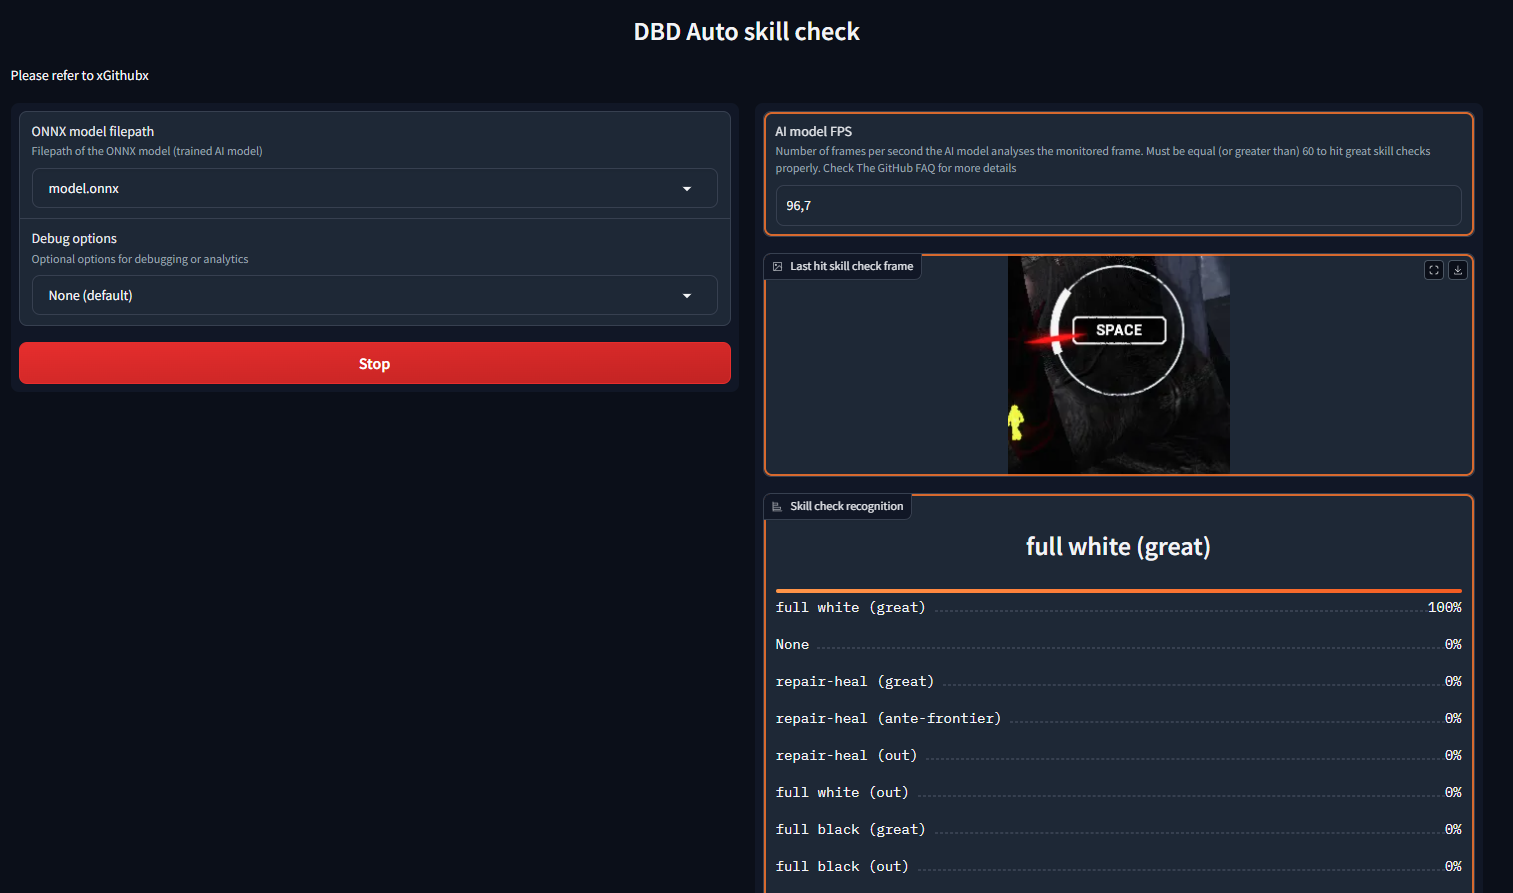
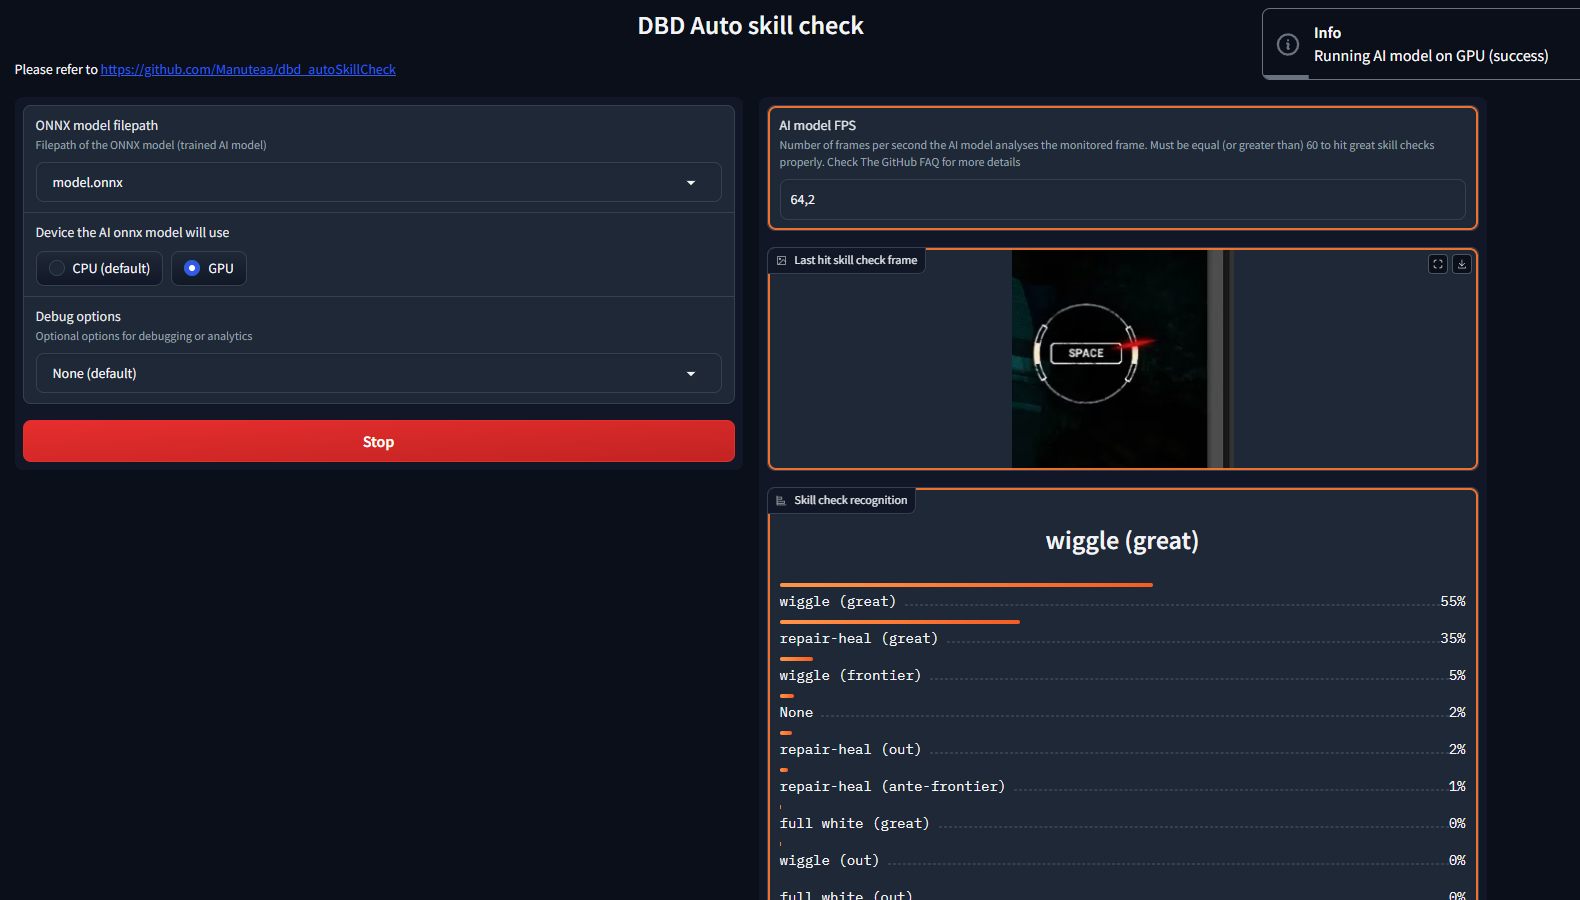
update README file

Changed region(s): [[0.0, 0.0302, 0.9941, 1.0], [0.4038, 0.0, 0.5902, 0.0605], [0.0, 0.0605, 0.2485, 0.0907]]

diff --git a/README.md b/README.md
@@ -3,20 +3,38 @@
 The Dead by Daylight Auto Skill Check is a tool developed using deep learning techniques (PyTorch) to automatically detect and successfully hit skill checks in the popular game Dead by Daylight. 
 This tool is designed to improve gameplay performance and enhance the player's skill in the game. 
 
+<!-- TOC -->
+* [DBD Auto Skill Check](#dbd-auto-skill-check)
+  * [Features](#features)
+  * [Execution Instructions](#execution-instructions)
+    * [Single prediction Web UI](#single-prediction-web-ui)
+    * [Auto skill check Web UI](#auto-skill-check-web-ui)
+  * [What is a skill check](#what-is-a-skill-check)
+  * [Project details](#project-details)
+    * [Dataset](#dataset)
+    * [Architecture](#architecture)
+    * [Training](#training)
+    * [Inference](#inference)
+    * [Results](#results)
+  * [FAQ](#faq)
+  * [Acknowledgments](#acknowledgments)
+<!-- TOC -->
+
 ## Features
 - Real-time detection of skill checks (60fps)
-- High accuracy in recognizing **all types of skill checks (with a 98.7% precision, see details of results below)**
+- High accuracy in recognizing **all types of skill checks (with a 98.7% precision, see details of [Results](#results))**
 - Automatic triggering of great skill checks through auto-pressing the space bar
-- **[NEW]** Two different webUI to run the AI model
+- Two different webUI to run the AI model
 
 
 ## Execution Instructions
-I have only tested the model on my own computer running Windows 11 with CUDA version 12.3.
+I have only tested the model on my own computer running Windows 11 with CUDA version 12.3. I provide two different scripts you can run, here the instructions.
 
 Create your own python env (I have python 3.11) and install the necessary libraries using the command :
-`pip install numpy mss onnxruntime pyautogui IPython pillow gradio`
 
-Then clone the repo. I provide two different scripts.
+`pip install numpy mss onnxruntime-gpu pyautogui IPython pillow gradio`
+
+Then git clone the repo.
 
 ### Single prediction Web UI
 
@@ -33,38 +51,35 @@ Run this script to test the AI model with images of the game.
 |------------------------------------------------|------------------------------------------------|
 | ![](images/single_pred_1.png "Example repair") | ![](images/single_pred_2.png "Example wiggle") |
 
-### Monitoring Web UI
+### Auto skill check Web UI
 
 Run this script and play the game ! It will hit the space bar for you.
 
 `python run_monitoring_gradio.py`
 
 1) Select the trained AI model (default to `model.onnx` available in this repo)
-2) Choose debug options. I recommend setting this option to None. If you want to check which screen the script is monitoring, you can select the first option. If the AI struggles recognizing the skill checks, select the second option to save the results, then you can upload the images in a new GitHub issue.
-3) Click 'RUN'
-4) You can STOP and RUN the script from the Web UI at will, for example when waiting in the game lobby.
+2) Select the device to use. Select "CPU", except if you need to improve the AI model FPS [FAQ](#faq)
+3) Choose debug options. I recommend setting this option to None. If you want to check which screen the script is monitoring, you can select the first option. If the AI struggles recognizing the skill checks, select the second option to save the results, then you can upload the images in a new GitHub issue
+4) Click 'RUN'
+5) You can STOP and RUN the script from the Web UI at will, for example when waiting in the game lobby
 
 Your main screen is now monitored meaning that frames are regularly sampled (with a center-crop) and analysed with the trained AI model.
 You can play the game on your main monitor.
 When a great skill check is detected, the SPACE key is automatically pressed, then it waits for 0.5s to avoid triggering the same skill check multiple times in a row.
 
 On the right of the web UI, we display :
-- The AI model FPS : the number of frames per seconds the AI model processes
+- The AI model FPS : the number of frames per second the AI model processes
 - The last hit skill check frame : last frame (center-cropped image with size 224x224) the AI model triggered the SPACE bar. **This may not be the actual hit frame (as registered by the game) because of game latency (such as ping). The AI model anticipates the latency, and hits the space bar a little bit before the cursor reaches the great area, that's why the displayed frame will always be few frames before actual game hit frame**
 - Skill check recognition : set of probabilities for the frame displayed before
 
 | RUN example with a full white skill check (to hit) | RUN example with an ante-great repair skill check (to hit) |
 |----------------------------------------------------|------------------------------------------------------------|
-| ![](images/run_2.png "Example run 1")              | ![](images/run_3.png "Example run 2")                      |
+| ![](images/run_1.png "Example run 1")              | ![](images/run_2.png "Example run 2")                      |
 
 
 
-**Both the game AND the AI model FPS must run at 60fps (or more) in order to hit correctly the great skill checks.** If you have low FPS values for the AI model, try this :
-- Disable the energy saver settings in your computer settings
-- Run the script in administrator
-
-I had this problem of low FPS with Windows : when the script was on the background (when I played), the FPS dropped significantly. Running the script in admin solved the problem.
-
+**Both the game AND the AI model FPS must run at 60fps (or more) in order to hit correctly the great skill checks.** 
+I had the problem of low FPS with Windows : when the script was on the background (when I played), the FPS dropped significantly. Running the script in admin solved the problem (see the [FAQ](#faq)).
 
 
 ## What is a skill check
@@ -155,6 +170,28 @@ When combined with our screen monitoring script, we achieved a consistent 60fps 
 In conclusion, our model achieves high accuracy thanks to the high-quality dataset with effective data augmentation techniques, and architectural choices.
 **The RUN script successfully hits the great skill checks with high confidence.**
 
+## FAQ
+
+How to run the AI model with your GPU ?
+- Check if you have `pip install onnxruntime-gpu` and not onnxruntime (if not, uninstall onnxruntime before installing onnxruntime-gpu)
+- Check onnxruntime-gpu version compatibilities with CUDA, CUDNN and torch https://onnxruntime.ai/docs/execution-providers/CUDA-ExecutionProvider.html#requirements
+- Install CUDA 12.x (I have 12.3)
+- Install torch with CUDA compute (I have 2.4.0 with cuda 12.1 compute platform) https://pytorch.org/get-started/locally/
+- Install CUDNN 9.x (I have 9.4)
+- Install last version of MSVC
+- Select "GPU" in the Auto skill check webUI, click "RUN" and check if you have a warning message
+
+If the script misses the great skill checks, be sure :
+- Your game FPS >= 60
+- The AI model FPS >= 60
+- Your ping is not too high (I have 40 ping and I hit 100% great skill checks)
+- Your game settings (such as resolution): your displayed images "last hit skill check frame" should be similar with the ones in my examples
+- You do not use a potato instead of a computer
+
+If you have low FPS values for the AI model, try this :
+- Switch device to gpu
+- Disable the energy saver settings in your computer settings
+- Run the script in administrator
 
 ## Acknowledgments
 
